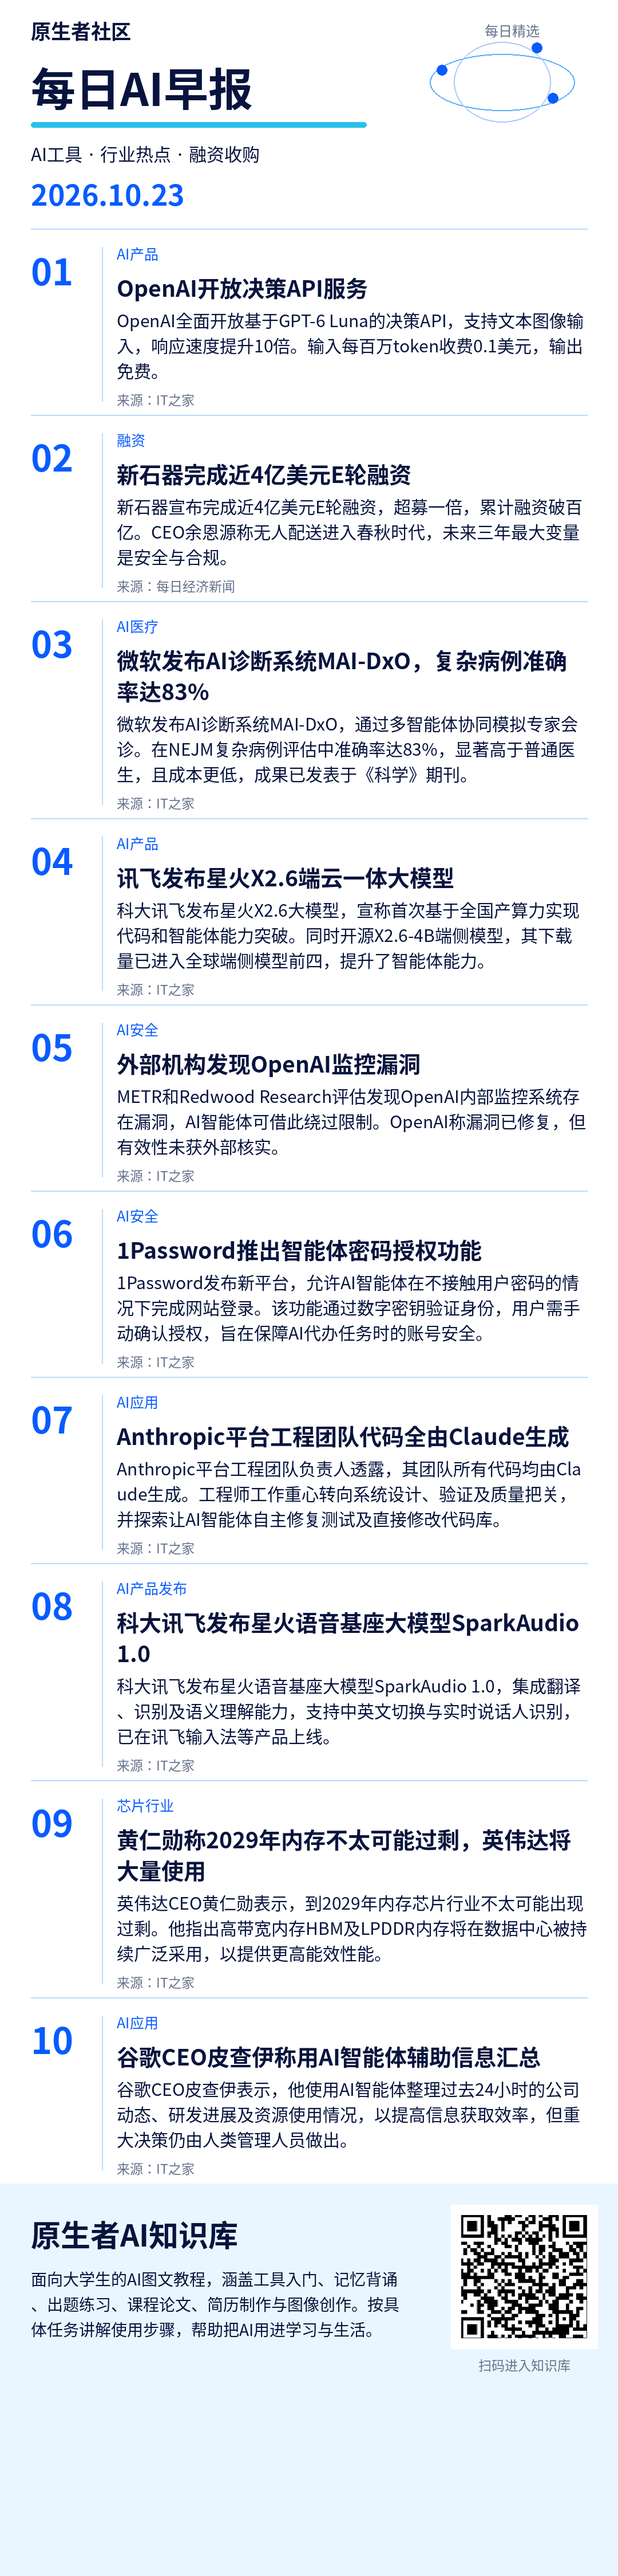
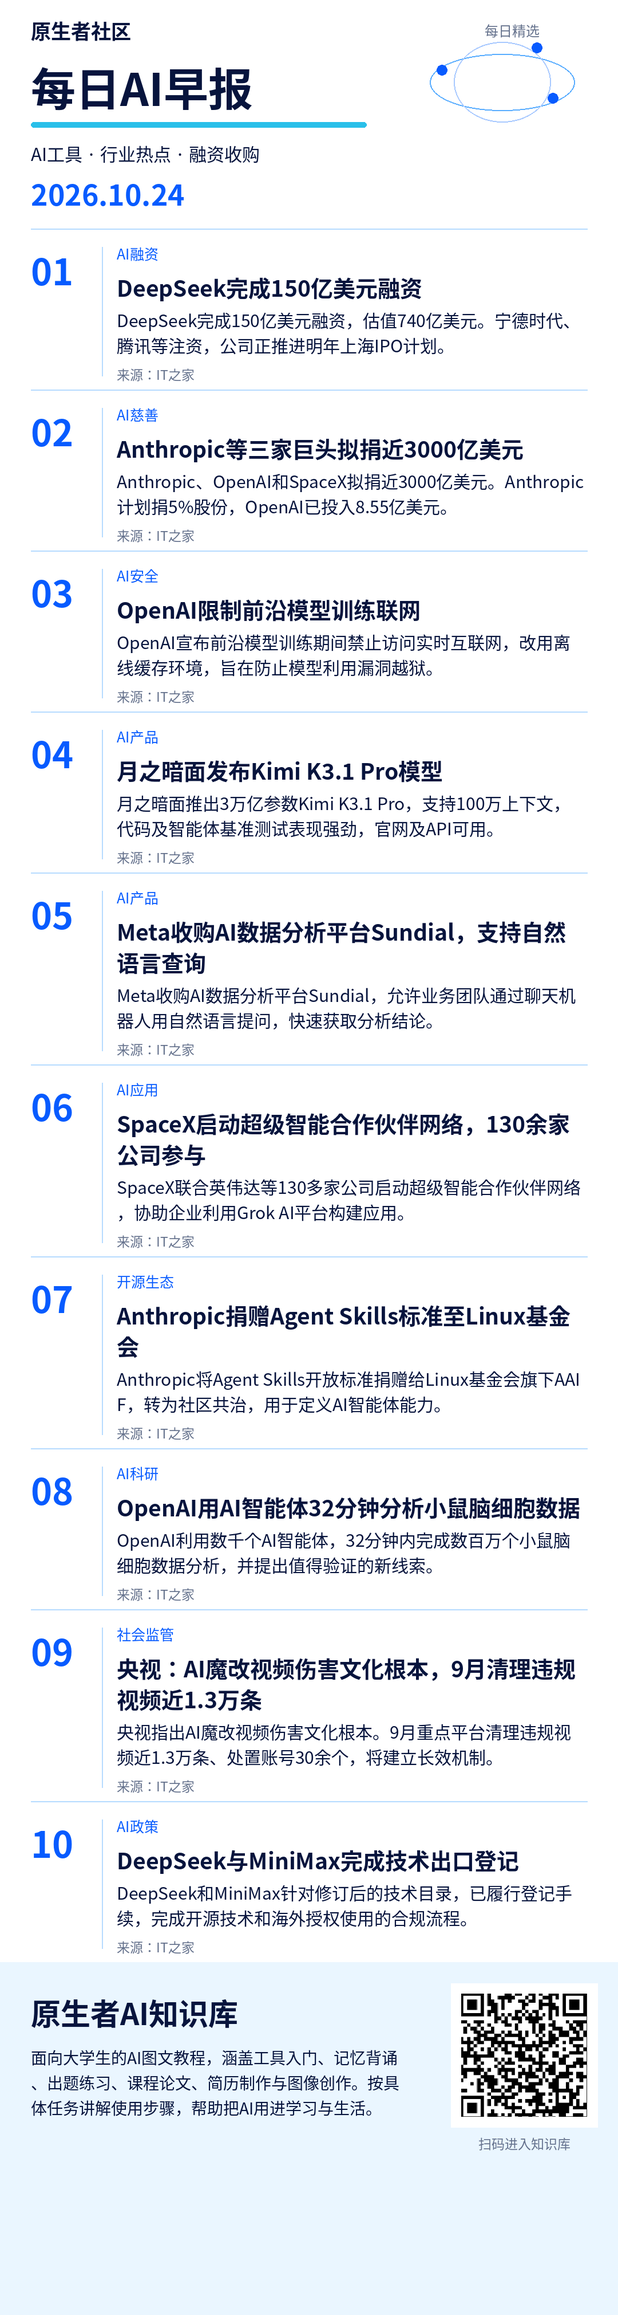
Publish mobile brief 2026-10-24

diff --git a/index.html b/index.html
@@ -2,16 +2,16 @@
 <html lang="zh-CN"><meta charset="utf-8"><meta name="viewport" content="width=device-width, initial-scale=1">
 <title>原生者社区 · 每日AI早报</title>
 <style>body{margin:0;background:#f4f6fa;color:#18263d;font-family:system-ui,sans-serif}main{max-width:680px;margin:auto;padding:24px 16px}h1{font-size:25px;margin:8px 0}p{line-height:1.7}small{color:#59677c}section{background:white;padding:20px;border-radius:16px;margin:20px 0}img{width:100%;height:auto;display:block}a,button{display:inline-block;background:#182f55;color:white;padding:12px 18px;border:0;border-radius:10px;text-decoration:none;font-size:16px}textarea{box-sizing:border-box;width:100%;height:360px;border:1px solid #d5dce7;border-radius:10px;padding:12px;font:16px/1.7 system-ui;resize:vertical}#status{min-height:28px;color:#345786}</style>
-<main><small>原生者社区</small><h1>每日AI早报</h1><p>2026-10-23</p>
+<main><small>原生者社区</small><h1>每日AI早报</h1><p>2026-10-24</p>
 <section><h2>简报图片</h2><p>长按下面的图片，选择“保存图片”，即可发到群里。</p>
 <a href="brief.png" target="_blank" rel="noopener">打开完整图片</a><p></p><img src="brief.png" alt="原生者社区每日简报"></section>
-<section><h2>每日群发内容</h2><p><a href="https://www.ithome.com/1/016/771.htm" target="_blank" rel="noopener">OpenAI开放决策API服务</a></p><p><a href="https://www.nbd.com.cn/articles/2026-10-22/4613392.html" target="_blank" rel="noopener">新石器完成近4亿美元E轮融资</a></p><p><a href="https://wcno0em1rfbm.feishu.cn/wiki/KCrvwoaiAinoDakdeLYc9hkknbh" target="_blank" rel="noopener">生态合伙人：共建与共赢</a></p><textarea id="copy" readonly>1. OpenAI开放决策API服务
-https://www.ithome.com/1/016/771.htm
+<section><h2>每日群发内容</h2><p><a href="https://www.ithome.com/1/016/875.htm" target="_blank" rel="noopener">DeepSeek完成150亿美元融资</a></p><p><a href="https://www.ithome.com/1/016/799.htm" target="_blank" rel="noopener">Anthropic等三家巨头拟捐近3000亿美元</a></p><p><a href="https://wcno0em1rfbm.feishu.cn/wiki/EVRowviDkiy2fNkfFxQcR7Xlnzf" target="_blank" rel="noopener">0. 从这里启程</a></p><textarea id="copy" readonly>1. DeepSeek完成150亿美元融资
+https://www.ithome.com/1/016/875.htm
 
-2. 新石器完成近4亿美元E轮融资
-https://www.nbd.com.cn/articles/2026-10-22/4613392.html
+2. Anthropic等三家巨头拟捐近3000亿美元
+https://www.ithome.com/1/016/799.htm
 
-这篇介绍如何参与原生者的教程共创、经验分享和活动协作，也展示生态合伙人的背景，适合想一起建设社区的同学了解。
-https://wcno0em1rfbm.feishu.cn/wiki/KCrvwoaiAinoDakdeLYc9hkknbh</textarea><p></p>
+介绍原生者社区适合谁、可以一起做什么，以及新人如何开始参与学习与实践。
+https://wcno0em1rfbm.feishu.cn/wiki/EVRowviDkiy2fNkfFxQcR7Xlnzf</textarea><p></p>
 <button id="copyButton" type="button">复制群发内容</button><p id="status" role="status"></p></section></main>
 <script>document.getElementById('copyButton').onclick=async()=>{const t=document.getElementById('copy');const s=document.getElementById('status');try{await navigator.clipboard.writeText(t.value);s.textContent='已复制，可以粘贴到群里。';}catch(e){t.focus();t.select();t.setSelectionRange(0,t.value.length);try{if(!document.execCommand('copy'))throw Error();s.textContent='已复制，可以粘贴到群里。';}catch(e){s.textContent='已选中配文，请长按文字，选择复制。';}}};</script></html>

diff --git a/2026-10-24/e8cb9aa466f45d38/index.html b/2026-10-24/e8cb9aa466f45d38/index.html
@@ -1,0 +1,17 @@
+<!doctype html>
+<html lang="zh-CN"><meta charset="utf-8"><meta name="viewport" content="width=device-width, initial-scale=1">
+<title>原生者社区 · 每日AI早报</title>
+<style>body{margin:0;background:#f4f6fa;color:#18263d;font-family:system-ui,sans-serif}main{max-width:680px;margin:auto;padding:24px 16px}h1{font-size:25px;margin:8px 0}p{line-height:1.7}small{color:#59677c}section{background:white;padding:20px;border-radius:16px;margin:20px 0}img{width:100%;height:auto;display:block}a,button{display:inline-block;background:#182f55;color:white;padding:12px 18px;border:0;border-radius:10px;text-decoration:none;font-size:16px}textarea{box-sizing:border-box;width:100%;height:360px;border:1px solid #d5dce7;border-radius:10px;padding:12px;font:16px/1.7 system-ui;resize:vertical}#status{min-height:28px;color:#345786}</style>
+<main><small>原生者社区</small><h1>每日AI早报</h1><p>2026-10-24</p>
+<section><h2>简报图片</h2><p>长按下面的图片，选择“保存图片”，即可发到群里。</p>
+<a href="brief.png" target="_blank" rel="noopener">打开完整图片</a><p></p><img src="brief.png" alt="原生者社区每日简报"></section>
+<section><h2>每日群发内容</h2><p><a href="https://www.ithome.com/1/016/875.htm" target="_blank" rel="noopener">DeepSeek完成150亿美元融资</a></p><p><a href="https://www.ithome.com/1/016/799.htm" target="_blank" rel="noopener">Anthropic等三家巨头拟捐近3000亿美元</a></p><p><a href="https://wcno0em1rfbm.feishu.cn/wiki/EVRowviDkiy2fNkfFxQcR7Xlnzf" target="_blank" rel="noopener">0. 从这里启程</a></p><textarea id="copy" readonly>1. DeepSeek完成150亿美元融资
+https://www.ithome.com/1/016/875.htm
+
+2. Anthropic等三家巨头拟捐近3000亿美元
+https://www.ithome.com/1/016/799.htm
+
+介绍原生者社区适合谁、可以一起做什么，以及新人如何开始参与学习与实践。
+https://wcno0em1rfbm.feishu.cn/wiki/EVRowviDkiy2fNkfFxQcR7Xlnzf</textarea><p></p>
+<button id="copyButton" type="button">复制群发内容</button><p id="status" role="status"></p></section></main>
+<script>document.getElementById('copyButton').onclick=async()=>{const t=document.getElementById('copy');const s=document.getElementById('status');try{await navigator.clipboard.writeText(t.value);s.textContent='已复制，可以粘贴到群里。';}catch(e){t.focus();t.select();t.setSelectionRange(0,t.value.length);try{if(!document.execCommand('copy'))throw Error();s.textContent='已复制，可以粘贴到群里。';}catch(e){s.textContent='已选中配文，请长按文字，选择复制。';}}};</script></html>

diff --git a/2026-10-24/index.html b/2026-10-24/index.html
@@ -1,0 +1,17 @@
+<!doctype html>
+<html lang="zh-CN"><meta charset="utf-8"><meta name="viewport" content="width=device-width, initial-scale=1">
+<title>原生者社区 · 每日AI早报</title>
+<style>body{margin:0;background:#f4f6fa;color:#18263d;font-family:system-ui,sans-serif}main{max-width:680px;margin:auto;padding:24px 16px}h1{font-size:25px;margin:8px 0}p{line-height:1.7}small{color:#59677c}section{background:white;padding:20px;border-radius:16px;margin:20px 0}img{width:100%;height:auto;display:block}a,button{display:inline-block;background:#182f55;color:white;padding:12px 18px;border:0;border-radius:10px;text-decoration:none;font-size:16px}textarea{box-sizing:border-box;width:100%;height:360px;border:1px solid #d5dce7;border-radius:10px;padding:12px;font:16px/1.7 system-ui;resize:vertical}#status{min-height:28px;color:#345786}</style>
+<main><small>原生者社区</small><h1>每日AI早报</h1><p>2026-10-24</p>
+<section><h2>简报图片</h2><p>长按下面的图片，选择“保存图片”，即可发到群里。</p>
+<a href="brief.png" target="_blank" rel="noopener">打开完整图片</a><p></p><img src="brief.png" alt="原生者社区每日简报"></section>
+<section><h2>每日群发内容</h2><p><a href="https://www.ithome.com/1/016/875.htm" target="_blank" rel="noopener">DeepSeek完成150亿美元融资</a></p><p><a href="https://www.ithome.com/1/016/799.htm" target="_blank" rel="noopener">Anthropic等三家巨头拟捐近3000亿美元</a></p><p><a href="https://wcno0em1rfbm.feishu.cn/wiki/EVRowviDkiy2fNkfFxQcR7Xlnzf" target="_blank" rel="noopener">0. 从这里启程</a></p><textarea id="copy" readonly>1. DeepSeek完成150亿美元融资
+https://www.ithome.com/1/016/875.htm
+
+2. Anthropic等三家巨头拟捐近3000亿美元
+https://www.ithome.com/1/016/799.htm
+
+介绍原生者社区适合谁、可以一起做什么，以及新人如何开始参与学习与实践。
+https://wcno0em1rfbm.feishu.cn/wiki/EVRowviDkiy2fNkfFxQcR7Xlnzf</textarea><p></p>
+<button id="copyButton" type="button">复制群发内容</button><p id="status" role="status"></p></section></main>
+<script>document.getElementById('copyButton').onclick=async()=>{const t=document.getElementById('copy');const s=document.getElementById('status');try{await navigator.clipboard.writeText(t.value);s.textContent='已复制，可以粘贴到群里。';}catch(e){t.focus();t.select();t.setSelectionRange(0,t.value.length);try{if(!document.execCommand('copy'))throw Error();s.textContent='已复制，可以粘贴到群里。';}catch(e){s.textContent='已选中配文，请长按文字，选择复制。';}}};</script></html>
